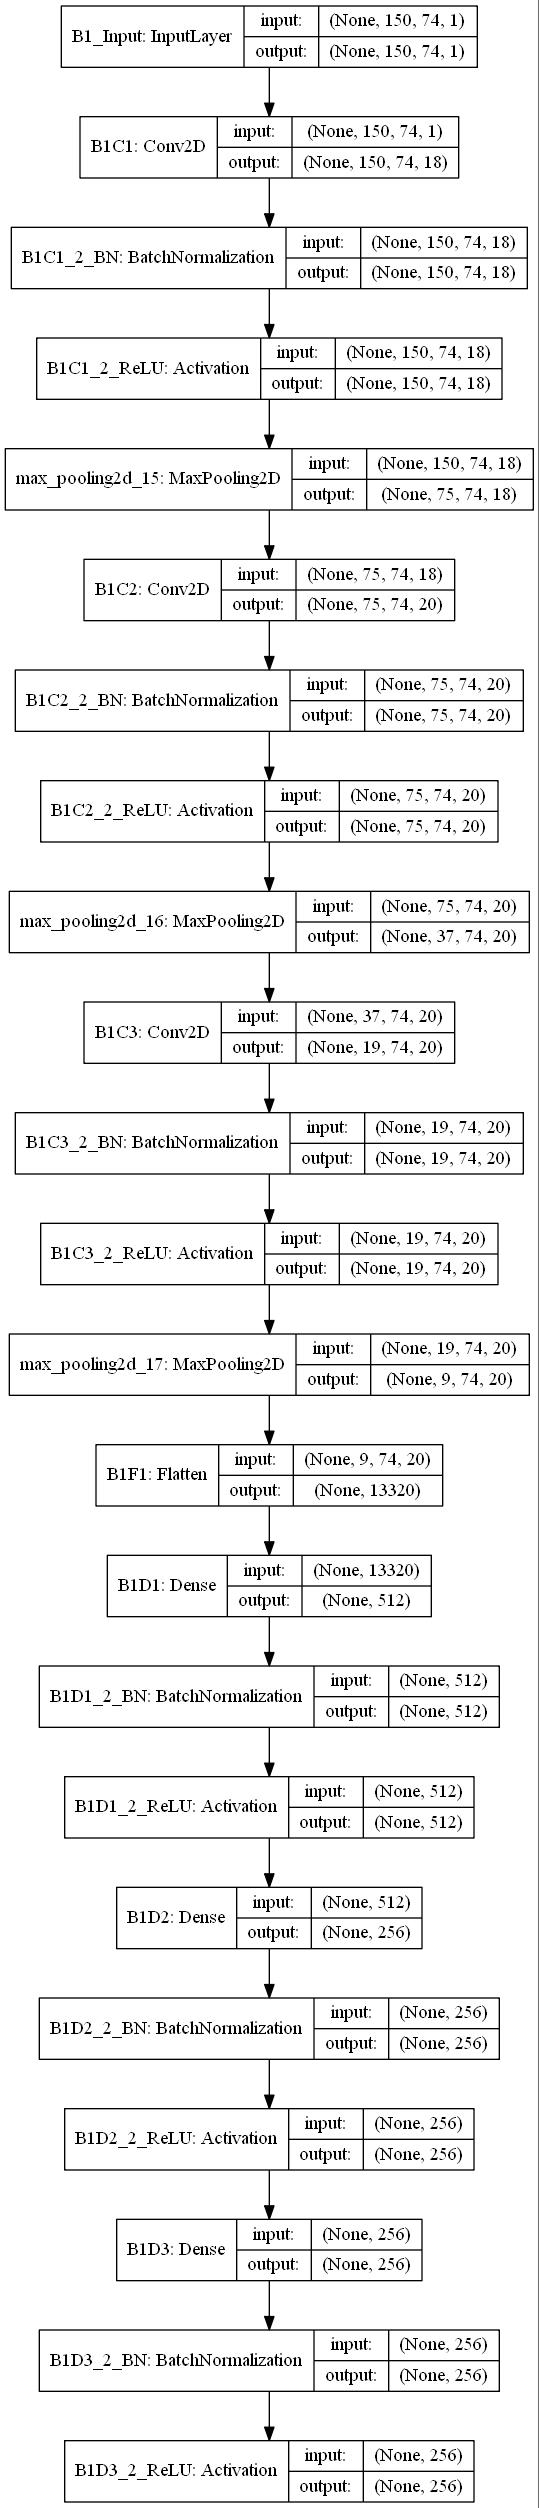
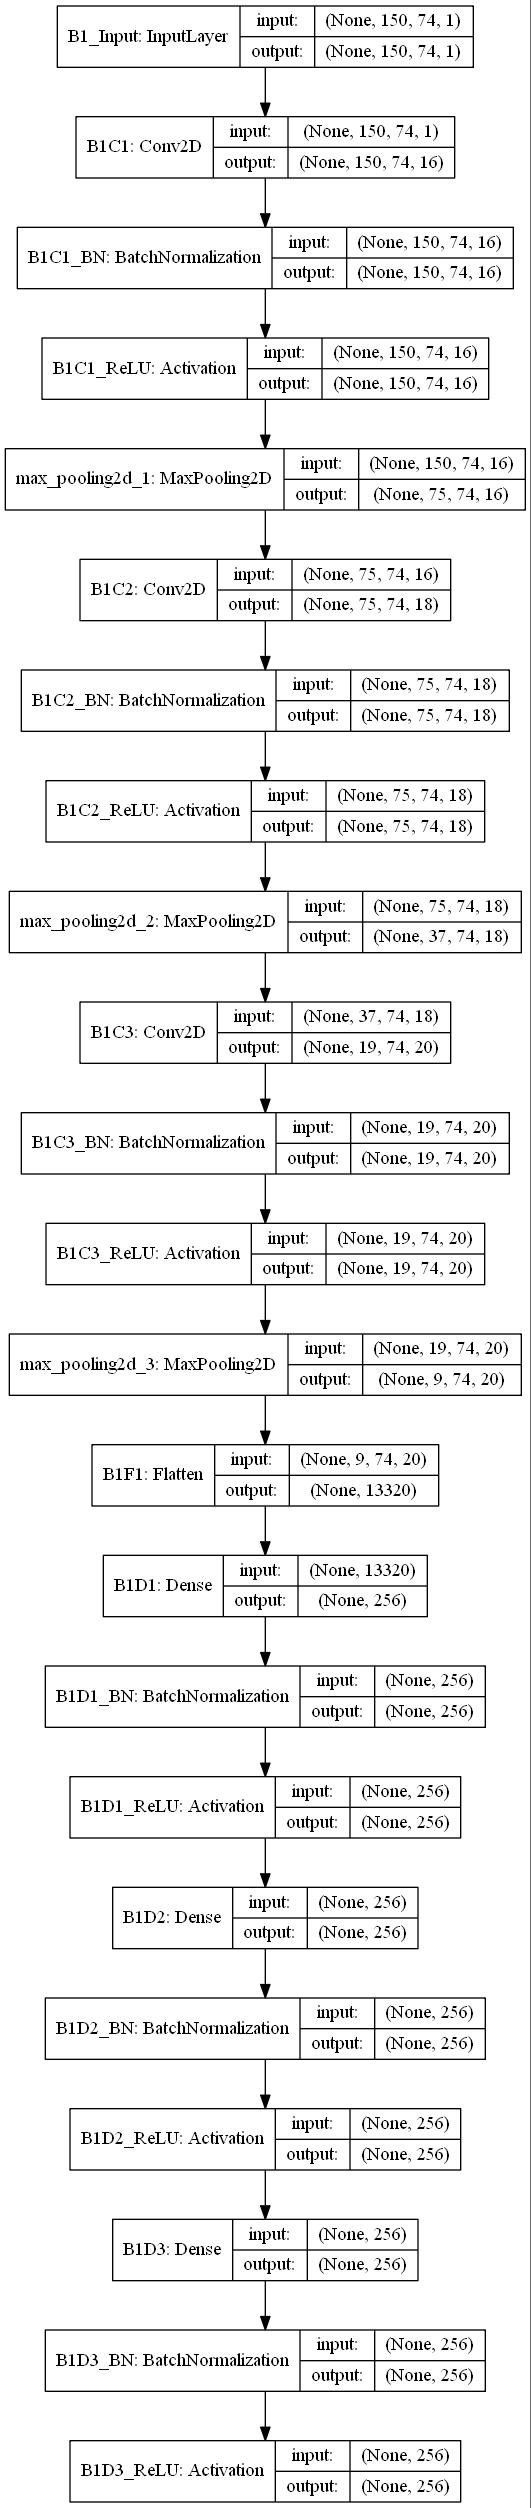
model structure

diff --git a/Project_DNN/scripts/models.py b/Project_DNN/scripts/models.py
@@ -47,7 +47,7 @@ def Layer_B1():
 
     b1_input = Input(shape=(150, 74, 1), name='B1_Input')
     #b1 = _add_BN_ReLU_DO(b1, b1_dropout)
-    b1 = Conv2D(filters=18,
+    b1 = Conv2D(filters=16,
             kernel_size=(3, 1),
             strides=(1, 1), 
             data_format="channels_last",
@@ -55,7 +55,7 @@ def Layer_B1():
             name = 'B1C1')(b1_input)
     b1 = _add_BN_ReLU_SpDO(b1, b1_dropout)
     b1 = MaxPool2D(pool_size=(2, 1))(b1)
-    b1 = Conv2D(filters=20,
+    b1 = Conv2D(filters=18,
             kernel_size=(3, 1),
             strides=(1, 1), 
             padding = 'same',
@@ -70,7 +70,7 @@ def Layer_B1():
     b1 = _add_BN_ReLU_SpDO(b1, b1_dropout)
     b1 = MaxPool2D(pool_size=(2, 1))(b1)
     b1 = Flatten(name='B1F1')(b1)
-    b1 = Dense(512, name='B1D1')(b1)
+    b1 = Dense(256, name='B1D1')(b1)
     b1 = _add_BN_ReLU_DO(b1, b1_dropout)
     b1 = Dense(256, name='B1D2')(b1)
     b1 = _add_BN_ReLU_DO(b1, b1_dropout)
@@ -96,31 +96,23 @@ def Layer_B2():
                                 name='B2C1')(b2_input)
     b2 = _add_BN_ReLU_SpDO_TD(b2, b2_dropout)
     b2 = TimeDistributed(MaxPool2D(), name='B2C1_MP')(b2)
-    b2 = TimeDistributed(Conv2D(filters=20,
+    b2 = TimeDistributed(Conv2D(filters=16,
                                 kernel_size=3,
                                 strides=1,
                                 padding='same'),
                                 name='B2C2')(b2)
     b2 = _add_BN_ReLU_SpDO_TD(b2, b2_dropout)
     b2 = TimeDistributed(MaxPool2D(), name='B2C2_MP')(b2)
-    b2 = TimeDistributed(Conv2D(filters=32,
+    b2 = TimeDistributed(Conv2D(filters=16,
                                 kernel_size=3,
                                 strides=1,
                                 padding='same',
                                 activation='relu'),
                                 name='B2C3')(b2)
-    b2 = _add_BN_ReLU_SpDO_TD(b2, b2_dropout)
     b2 = TimeDistributed(MaxPool2D(), name='B2C3_MP')(b2)
-    b2 = TimeDistributed(Conv2D(filters=32,
-                                kernel_size=3,
-                                strides=1,
-                                padding='same',
-                                activation='relu'),
-                                name='B2C5')(b2)
     b2 = _add_BN_ReLU_SpDO_TD(b2, b2_dropout)
-    b2 = TimeDistributed(MaxPool2D(), name='B2C4_MP')(b2)
     b2 = TimeDistributed(Flatten(), name="B2F1")(b2)
-    b2 = TimeDistributed(Dense(512), name="B2D1")(b2)
+    b2 = TimeDistributed(Dense(256), name="B2D1")(b2)
     b2 = _add_BN_ReLU_DO_TD(b2, b2_dropout)
     b2 = TimeDistributed(Dense(256), name="B2D2")(b2)
     b2 = _add_BN_ReLU_DO_TD(b2, b2_dropout)
@@ -128,12 +120,13 @@ def Layer_B2():
     b2 = _add_BN_ReLU_DO_TD(b2, b2_dropout)
     b2 = LSTM(1024, dropout=b2_dropout, name='B2R1')(b2)
     b2 = _add_BN_ReLU_DO(b2, b2_dropout)
-    b2 = Dense(512, name='B2D4')(b2)
+    b2 = Dense(256, name='B2D4')(b2)
     b2 = _add_BN_ReLU_DO(b2, b2_dropout)
     b2 = Dense(256, name='B2D5')(b2)
     b2 = _add_BN_ReLU_DO(b2, b2_dropout)
     b2 = Dense(256, name='B2D6')(b2)
     b2 = _add_BN_ReLU_DO(b2, b2_dropout)
+    
     b2_output = b2
     
     return b2_input, b2_output
@@ -157,7 +150,7 @@ def Model_M1():
       lr=1e-4로 최소 epoch 60번은 돌려야 2,3을 구분할 수 있더라
     '''
     m1_dropout = 0.0
-    m1_learningRate = 1e-4
+    m1_learningRate = 5e-5
     #decay_rate = m1_learningRate / 20 # lr/epoches
     #relu_alpha = 0.1
 
@@ -169,7 +162,10 @@ def Model_M1():
     x = _add_BN_ReLU_DO(x, m1_dropout)
     x = Dense(256, name='M1D2')(x)
     x = _add_BN_ReLU_DO(x, m1_dropout)
-    x = Dense(define.LABEL_SIZE, name='M1D3')(x)
+    x = Dense(256, name='M1D3')(x)
+    x = _add_BN_ReLU_DO(x, m1_dropout)
+    
+    x = Dense(define.LABEL_SIZE, name='M1D4')(x)
     x = BatchNormalization(name='M1D4_BN')(x)
     x = Softmax(name='Softmax')(x)
     m1o = x

diff --git a/Project_DNN/do_Learning.py b/Project_DNN/do_Learning.py
@@ -32,7 +32,7 @@ Path.ifNoDirThanMakeDir('weight')
 epochs = util.inputInt('How many epochs?')
 b1_batch_size = 15 # GPU 메모리 부족으로 Batch_size에 한계 있음
 b2_batch_size = 15
-m1_batch_size = 20
+m1_batch_size = 15
 isLoadWeight = util.inputInt('Load weight? (1 to yes)')
 overwrite = True
 
@@ -52,7 +52,7 @@ spointList_test, roiSampleList_test, labelList_test = \
 dp.plotSpointDataList(dirPath_train, 2, 2, False, Path.get('img') + '\\d_graph')
 dp.plotSpointDataList(dirPath_train, 2, 2, True, Path.get('img') + '\\d_image')
 
-# make model
+# make model, b1/b2는 구조 print용
 util.showProcess('Model Generating')
 b1 = models.Model_B1()
 util.showProcess('B1')
@@ -65,8 +65,8 @@ m1 = models.Model_M1()
 #m1.summary()
 
 # plot to file
-models.saveModelDescription(models.Model_B1(), Path.get('img'), False)
-models.saveModelDescription(models.Model_B2(), Path.get('img'), False)
+models.saveModelDescription(b1, Path.get('img'), False)
+models.saveModelDescription(b2, Path.get('img'), False)
 models.saveModelDescription(m1, Path.get('img'), False)
 
 # Load Weight
@@ -94,7 +94,7 @@ accuracy = train.calculateAccuracy([spointList_test, roiSampleList_test],
                                    labelList_test,
                                    len(labelList_test),
                                    m1, verbose=1,
-                                   batch_size=m1_batch_size)
+                                   batch_size=1)
 print('Accuracy: ' + str(accuracy))
 
 # Write Weight

diff --git a/Project_DNN/scripts/Path.py b/Project_DNN/scripts/Path.py
@@ -27,10 +27,18 @@ class _Path():
         self.__append('temp', '..\\..\\data\\temp')
 
         # Change relative to absolute
-        # Error File/Folder is not exist
         for key in self.__DIC:
             self.__DIC[key] = self.__relToAb(self.__DIC[key])
 
+        self.ifNoDirThanMakeDir('data')
+        self.ifNoDirThanMakeDir('train')
+        self.ifNoDirThanMakeDir('test')
+        self.ifNoDirThanMakeDir('weight')
+        self.ifNoDirThanMakeDir('img')
+        self.ifNoDirThanMakeDir('temp')
+
+        # Error File/Folder is not exist
+        for key in self.__DIC:
             # Path 미존재
             if (os.path.exists(self.__DIC[key]) == False):
                 utils.showError('{0} 파일/폴더를 찾을 수 없습니다.'.format(self.__DIC[key]))
